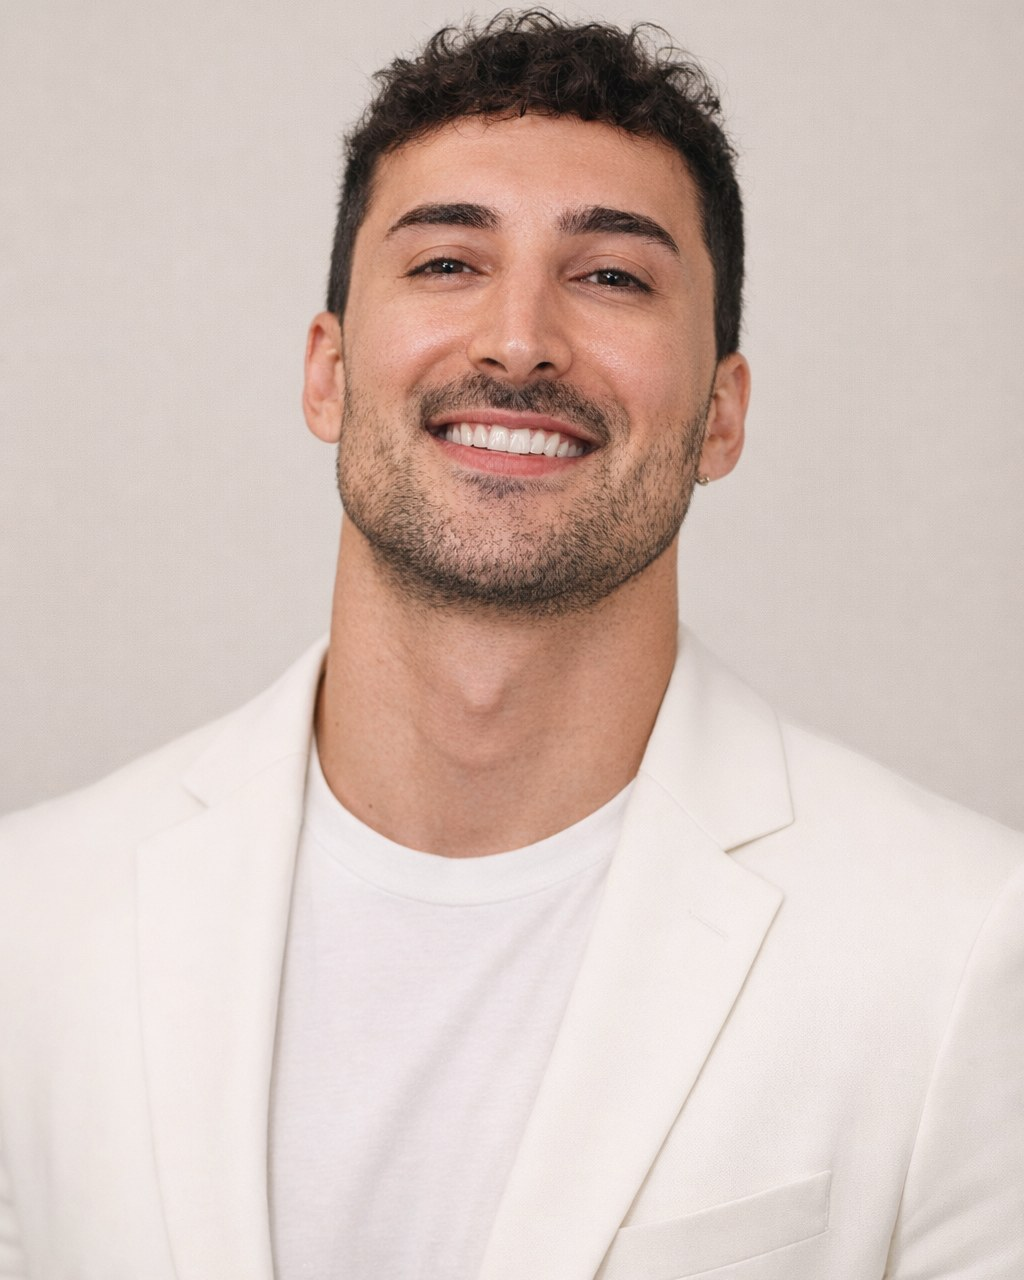
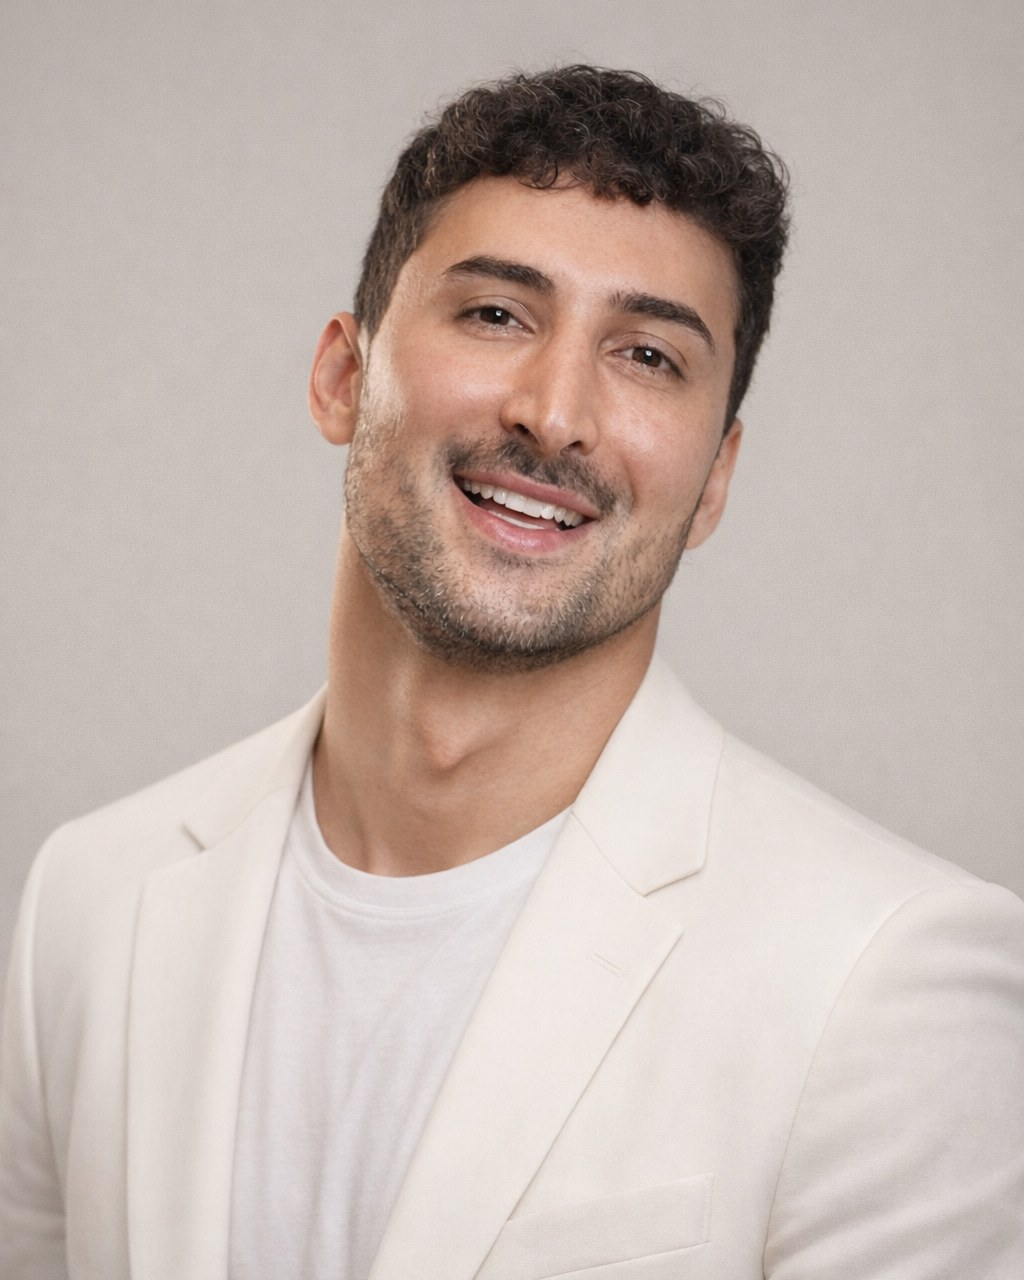
Dr. Loan: novo retrato de estúdio

diff --git a/index.html b/index.html
@@ -472,7 +472,7 @@ src="https://www.facebook.com/tr?id=729537770186252&ev=PageView&noscript=1"
   <div class="wrap ment">
     <div class="duo">
       <figure><div class="portrait" data-clip><img src="img/dra-mariane.jpg" alt="Dra. Mariane Botti" data-par="7"></div><figcaption data-r>Dra. Mariane Botti</figcaption></figure>
-      <figure><div class="portrait" data-clip><img src="img/dr-loan.jpg?v=2" alt="Dr. Loan Tomiello" data-par="7"></div><figcaption data-r>Dr. Loan Tomiello</figcaption></figure>
+      <figure><div class="portrait" data-clip><img src="img/dr-loan.jpg?v=3" alt="Dr. Loan Tomiello" data-par="7"></div><figcaption data-r>Dr. Loan Tomiello</figcaption></figure>
     </div>
     <div>
       <span class="kicker" data-r>Quem dá a aula</span>
